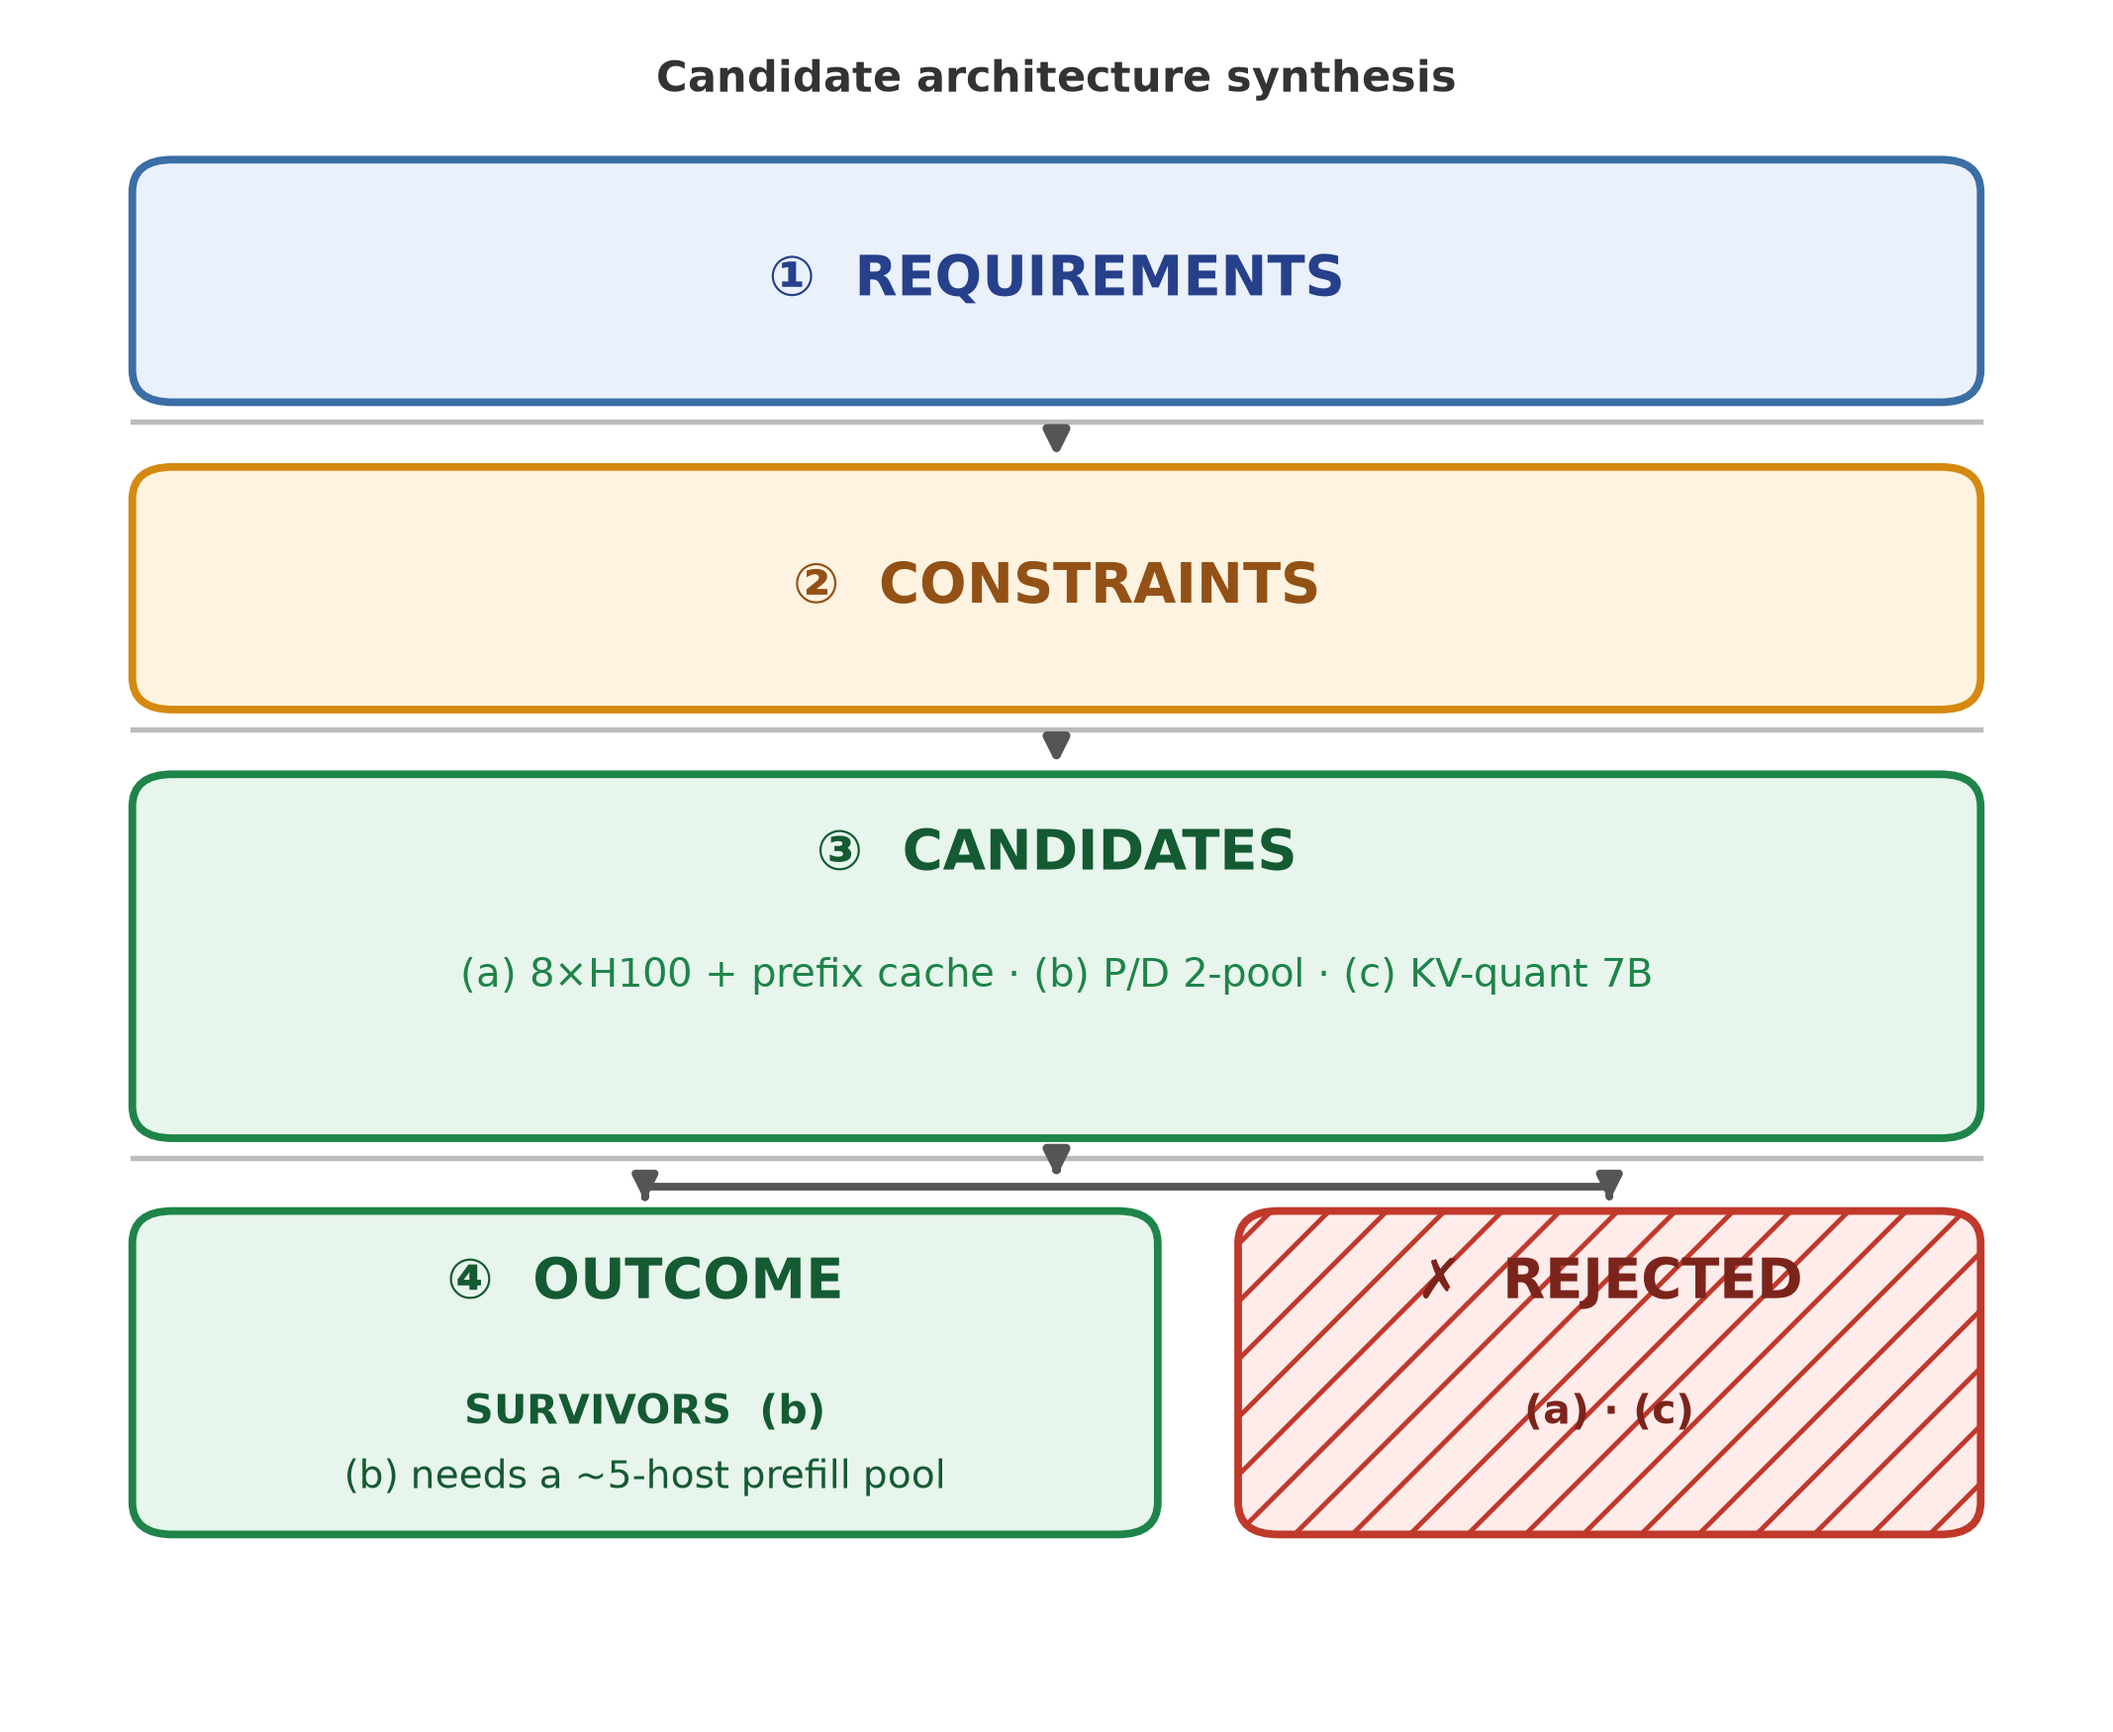
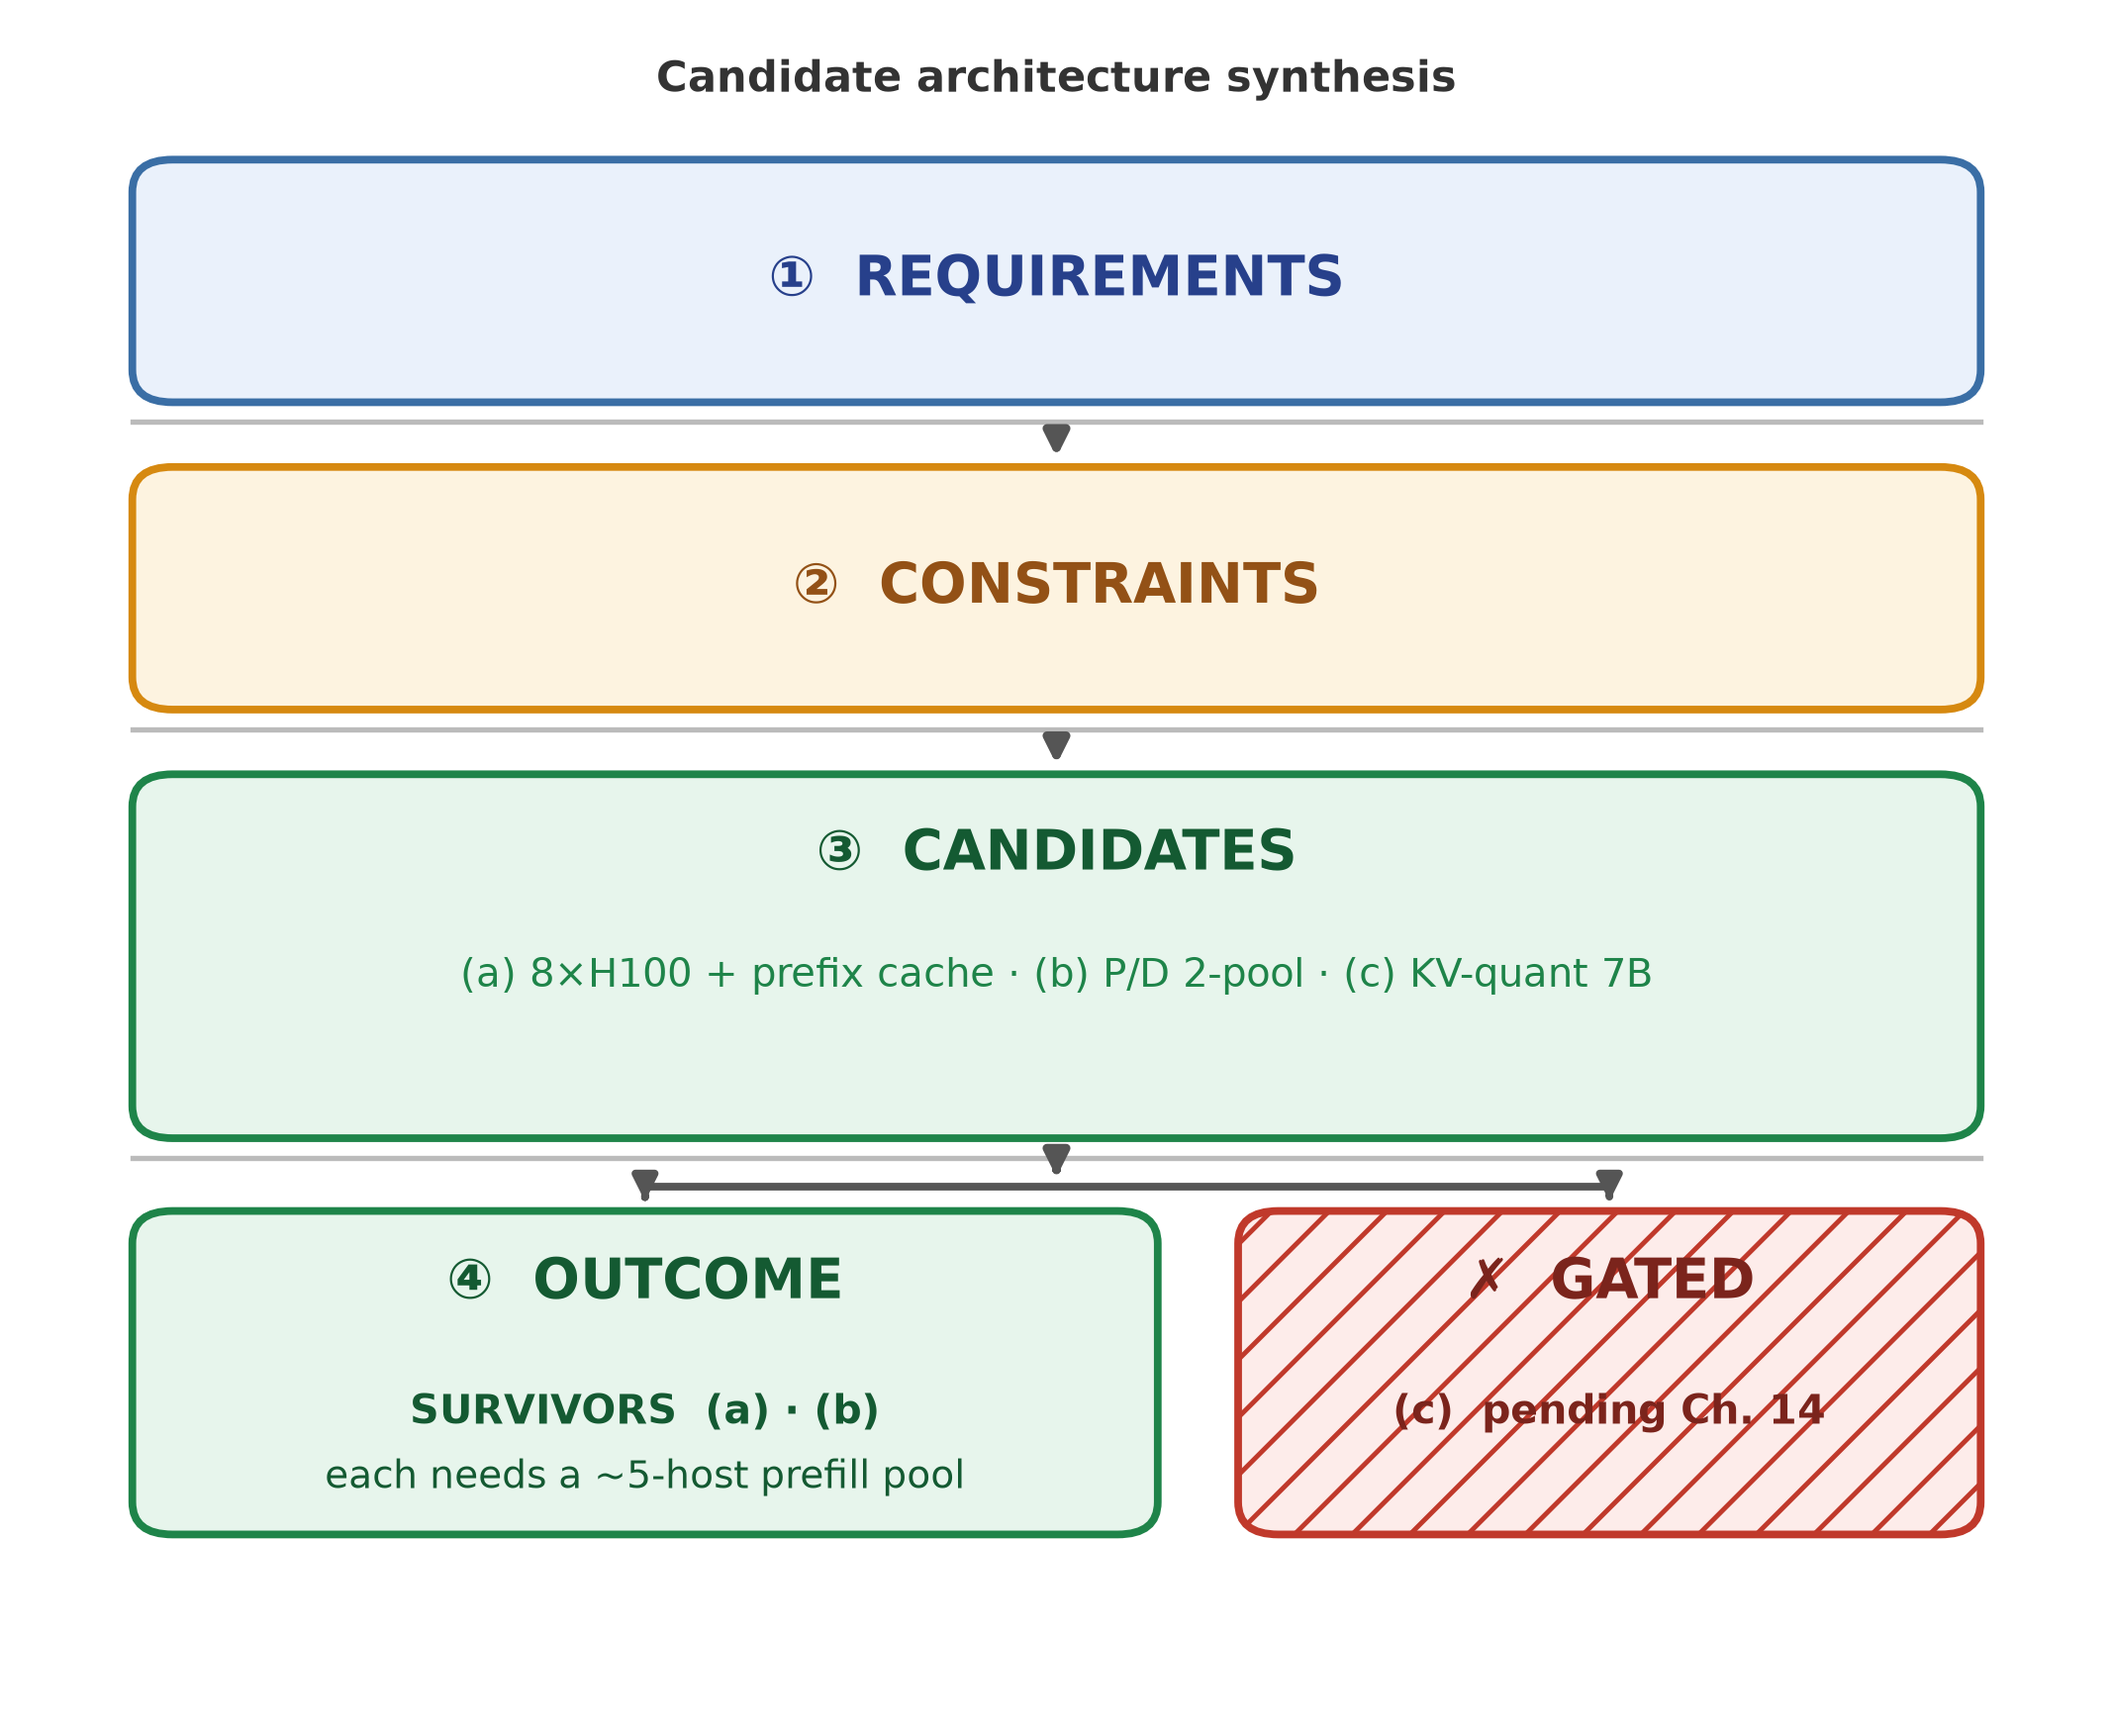
Loop2: Fig 12.1 OUTCOME -> SURVIVORS (a)·(b) / GATED (c) pending Ch14 (match reconciled finalist set); vision-verified, min 8.0pt

Changed region(s): [[0.1546, 0.8023, 0.4637, 0.864], [0.6801, 0.7097, 0.8656, 0.7714], [0.6492, 0.8023, 0.8656, 0.8331]]

diff --git a/render/fig_ch12.py b/render/fig_ch12.py
@@ -61,22 +61,22 @@ ax.text(CX, 0.435, '(a) 8\u00d7H100 + prefix cache \u00b7 (b) P/D 2-pool \u00b7 
 divider(0.323)
 
 # ---- Stage 4 OUTCOME — SURVIVORS vs REJECTED (one stage, two halves) ----
-# (a) fails the capacity gate (a monolithic 8xH100 cannot add prefill hosts);
-# (b) survives because its prefill pool scales independently to ~5 hosts;
-# (c) is rejected on the quality gate.
+# (a) and (b) both clear the capacity gate (each needs a ~5-host prefill pool,
+# so (a) is not disqualified); (c) is gated, not a finalist — pending the Ch 14
+# quality gate.
 sw = (W - 0.04) * 0.58
 sx = X0
 box(sx, 0.090, sw, 0.200, '#e7f5ec', '#1e8449')
 stagelabel(sx + sw / 2, 0.245, '\u2463  OUTCOME', '#145a32')
-ax.text(sx + sw / 2, 0.165, 'SURVIVORS  (b)', ha='center', va='center',
+ax.text(sx + sw / 2, 0.165, 'SURVIVORS  (a) \u00b7 (b)', ha='center', va='center',
         fontsize=8.4, color='#145a32', fontweight='bold', zorder=3)
-ax.text(sx + sw / 2, 0.125, '(b) needs a ~5-host prefill pool', ha='center', va='center',
+ax.text(sx + sw / 2, 0.125, 'each needs a ~5-host prefill pool', ha='center', va='center',
         fontsize=8.0, color='#145a32', zorder=3)
 bx = sx + sw + 0.04
 bw = W - sw - 0.04
 box(bx, 0.090, bw, 0.200, '#fdecea', '#c0392b', hatch='//')
-stagelabel(bx + bw / 2, 0.245, '\u2717  REJECTED', '#7b241c')
-ax.text(bx + bw / 2, 0.165, '(a) \u00b7 (c)', ha='center', va='center',
+stagelabel(bx + bw / 2, 0.245, '\u2717  GATED', '#7b241c')
+ax.text(bx + bw / 2, 0.165, '(c)  pending Ch. 14', ha='center', va='center',
         fontsize=8.4, color='#7b241c', fontweight='bold', zorder=3)
 
 # branch from CANDIDATES into BOTH outcome halves: a short central drop, a
